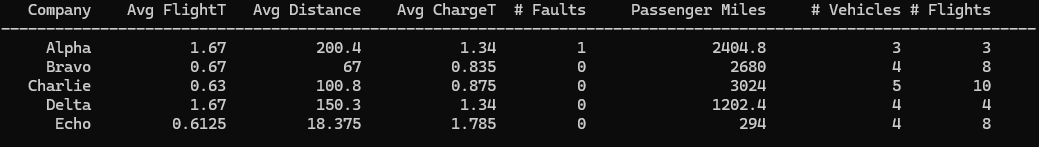
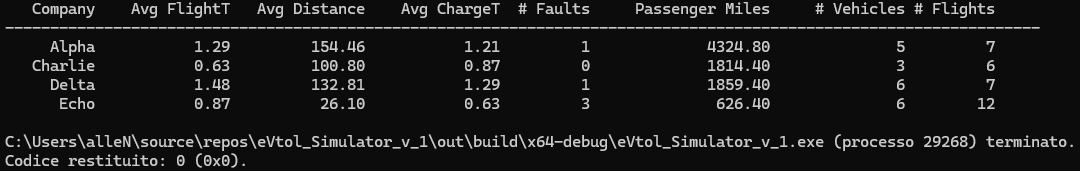
updated display precision of log function in Simulation, updated images

diff --git a/eVtol_Simulator_v_1.cpp b/eVtol_Simulator_v_1.cpp
@@ -195,6 +195,9 @@ public:
 			NumberOfVehicles[vehicle->getCompanyName()]++;
 		}
 
+		// Force decimal representation
+		std::cout << std::fixed << std::setprecision(2);
+
 		//iterate through one map (assuming all maps have the same keys)
 		for (const auto& [company, flightTime] : totalFlightTime) {
 			std::cout << std::setw(10) << company
